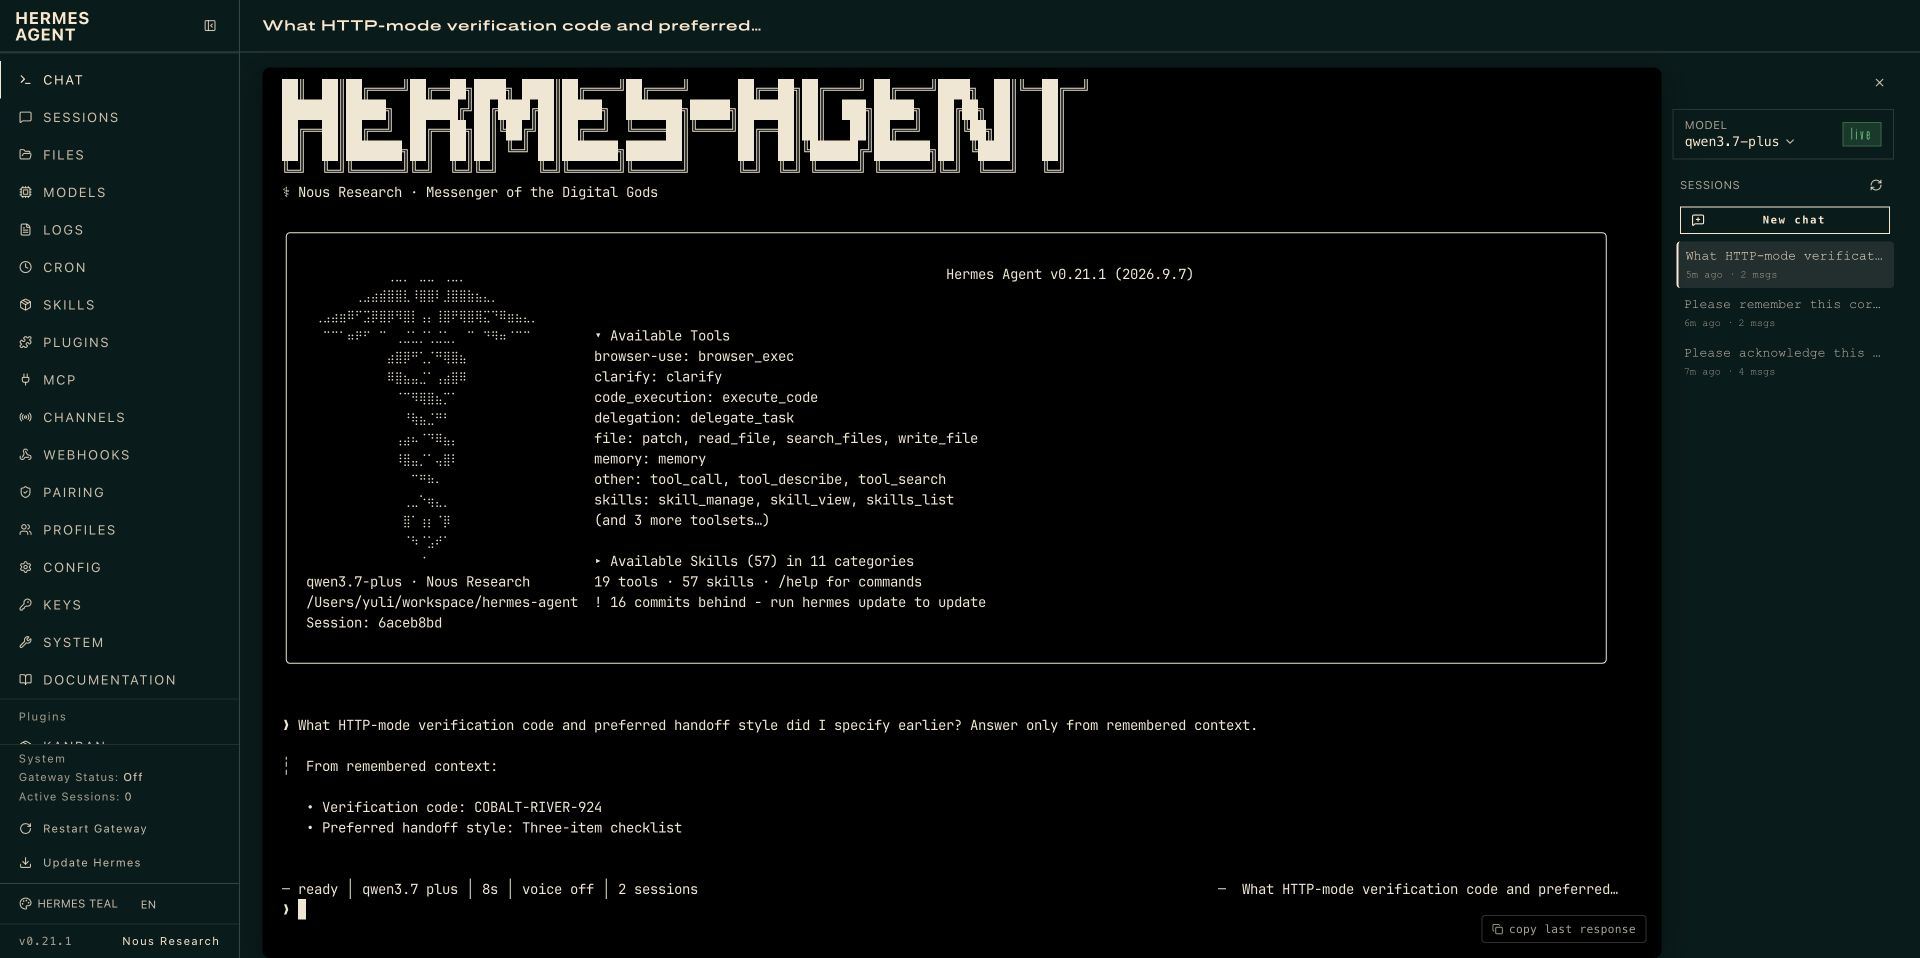
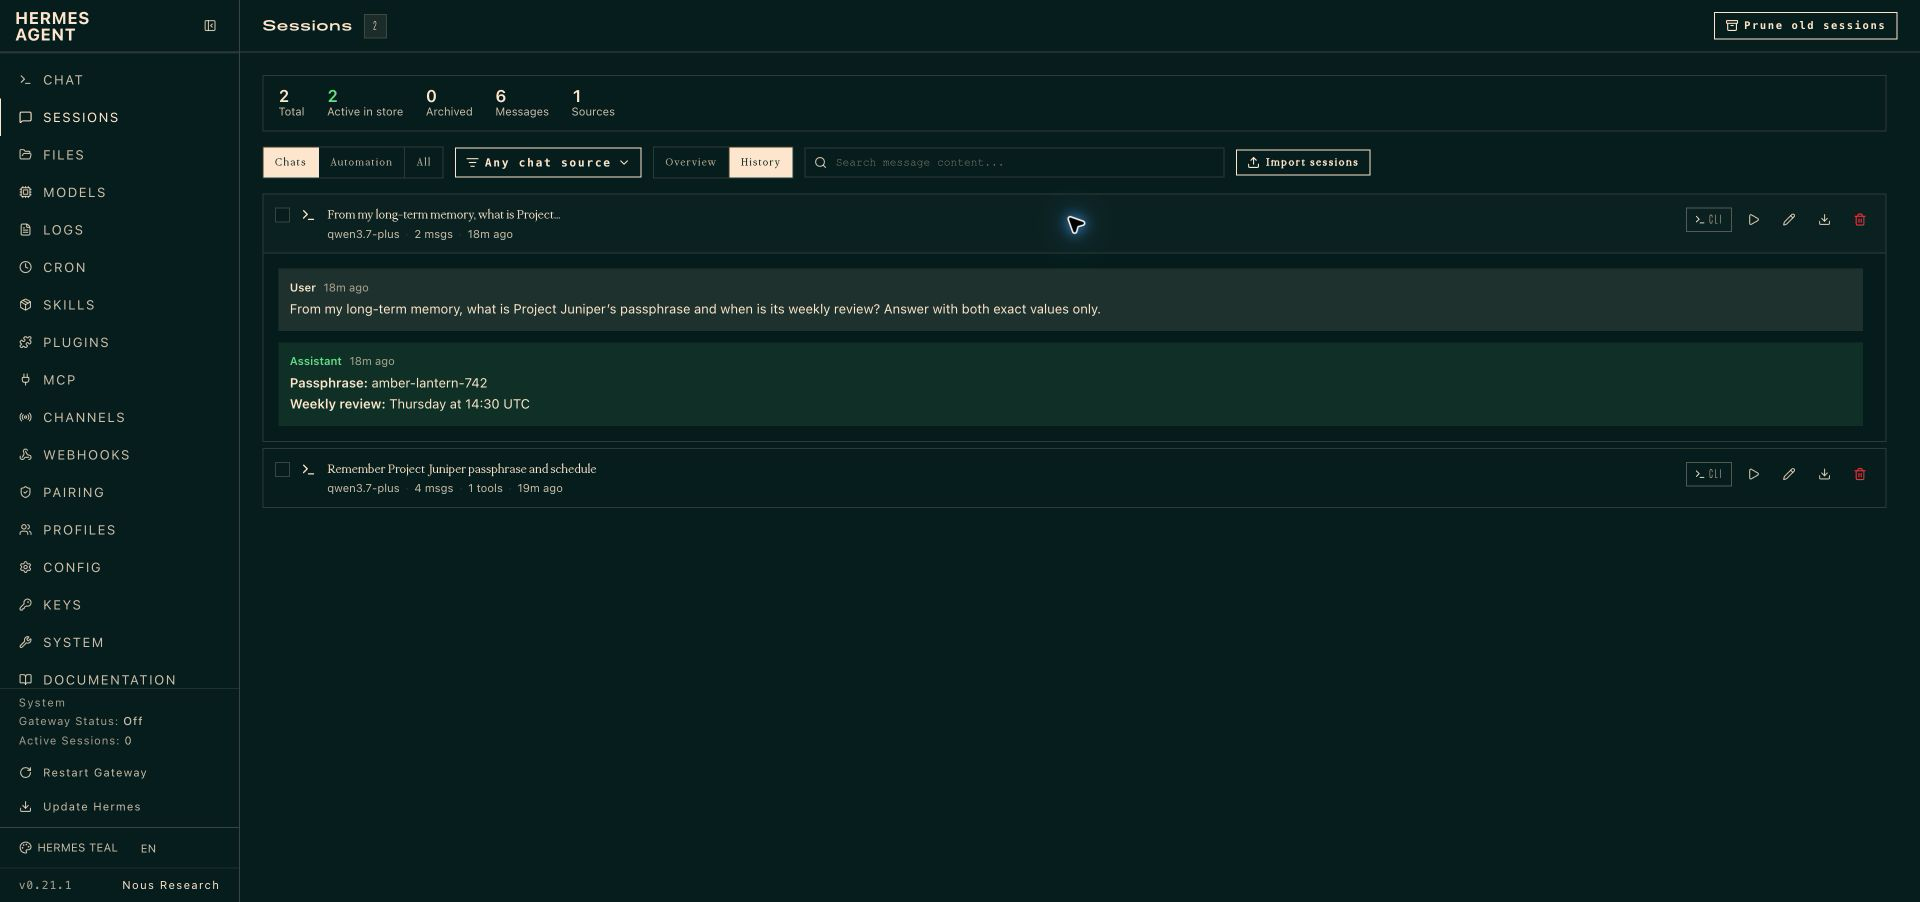
docs(integrations): expand Hermes verification guide

diff --git a/integrations/hermes_agent/README_ZH.md b/integrations/hermes_agent/README_ZH.md
@@ -39,7 +39,8 @@ hermes plugins install agentscope-ai/ReMe/integrations/hermes_agent
 hermes memory setup
 ```
 
-本地开发时可以直接复制当前 checkout：
+本地同时开发 ReMe 和 Hermes 时，可以复制当前 checkout，也可以把它链接为 project-local plugin。软链接会让 Hermes 始终
+运行当前正在编辑的 ReMe 源码：
 
 ```bash
 mkdir -p "$HERMES_HOME/plugins/reme"
@@ -47,6 +48,16 @@ cp -R /path/to/ReMe/integrations/hermes_agent/. "$HERMES_HOME/plugins/reme/"
 hermes plugins enable reme
 hermes config set memory.provider reme
 ```
+
+```bash
+cd /path/to/hermes-agent
+mkdir -p .hermes/plugins
+ln -s /path/to/ReMe/integrations/hermes_agent .hermes/plugins/reme
+export HERMES_ENABLE_PROJECT_PLUGINS=1
+hermes config set memory.provider reme
+```
+
+Hermes 仓库会忽略 `.hermes/` 运行状态。不要提交这个链接、profile 配置、对话记录或生成的记忆文件。
 
 启动对话前检查真实发现路径：
 
@@ -58,7 +69,7 @@ hermes memory status
 Hermes Dashboard 的 **Plugins → Runtime provider plugins → Memory provider → reme** 会展示模式相关字段以及召回、健康、
 写入和关闭的高级设置。选择不同模式时，只显示 HTTP endpoint 或 Embedded workspace 对应字段。
 
-![Hermes 中处于 ready 和 active 状态的 ReMe provider](figures/hermes-provider-settings.jpg)
+![Hermes 中处于 ready 和 active 状态的 ReMe provider](figures/hermes-provider-settings.png)
 
 配置主路径为 `$HERMES_HOME/reme/config.json`。新文件未包含的字段仍会从旧 `$HERMES_HOME/reme.json` 继承，新文件中的
 值优先；后续 CLI 保存会写入完整的新配置，但不会删除旧文件。
@@ -72,7 +83,7 @@ reme start \
   workspace_dir="/absolute/path/to/reme-hermes-default" \
   service.backend=http \
   service.host=127.0.0.1 \
-  service.port=2333
+  service.port=3456
 ```
 
 配置示例：
@@ -80,9 +91,11 @@ reme start \
 ```json
 {
   "mode": "http",
-  "endpoint": "http://127.0.0.1:2333"
+  "endpoint": "http://127.0.0.1:3456"
 }
 ```
+
+本文使用 `3456` 做联调端口，以免与默认 `2333` 上的其他 ReMe 实例冲突；这不是修改 ReMe 默认端口。
 
 终端 setup 会在保存前调用 `health_check`。HTTP action 接口没有本集成专用的认证头，不要直接暴露到公网；跨主机使用时
 应放在可信网络、SSH tunnel 或带认证的反向代理后。
@@ -159,13 +172,61 @@ ReMe 搜索覆盖整个 workspace。多个 Hermes profile 指向同一个 worksp
 
 ## 真实端到端验证
 
-以下截图来自 Hermes 0.21.1、ReMe 0.4.1.11 和 OpenAI-compatible 模型接口的真实联调。HTTP 与 Embedded 分别使用隔离的
-临时 Hermes profile 和 ReMe workspace：第一个会话通过 `auto_memory` 写入合成事实，第二个全新会话通过自动
-`prefetch` 召回。图片不包含 API Key 或真实个人记忆。
+以下截图使用 Computer Use 从真实英文 Hermes 0.21.1 与 ReMe Studio 0.4.1.11 界面取得，模型通过
+OpenAI-compatible 接口调用。HTTP 与 Embedded 分别使用隔离的临时 Hermes profile 和 ReMe workspace：第一个会话通过
+`auto_memory` 写入合成事实，第二个全新会话通过自动 `prefetch` 召回。图片不包含 API Key、`.env` 内容、浏览器外框或
+真实个人记忆。
+
+### 复现验证
+
+先让聚焦单测使用真实 Hermes 源码，再通过 Hermes 自身的 loader 验证插件发现和注册：
+
+```bash
+cd /path/to/ReMe
+PYTHONPATH=/path/to/hermes-agent \
+  pytest tests/unit/test_hermes_agent_integration.py -v
+
+cd /path/to/hermes-agent
+hermes plugins doctor /path/to/ReMe/integrations/hermes_agent --ci
+hermes memory status
+```
+
+真实模型验证时，在 `3456` 启动 ReMe，把 provider endpoint 指向该服务，并使用两个全新的 Hermes 会话：第一个会话要求
+记住一条虚构事实，第二个会话要求重新回答。如果现有 ReMe `.env` 使用 `LLM_*` 变量，只在验证进程环境中映射它们：
+
+```bash
+set -a
+source /path/to/ReMe/.env
+set +a
+export OPENAI_API_KEY="$LLM_API_KEY"
+export OPENAI_BASE_URL="$LLM_BASE_URL"
+
+hermes --provider openai-api -m "$LLM_MODEL_NAME" -z \
+  "Remember this synthetic fact for a later session: Project Juniper's weekly review is Thursday at 14:30 UTC."
+hermes --provider openai-api -m "$LLM_MODEL_NAME" -z \
+  "From long-term memory, when is Project Juniper's weekly review?"
+
+unset OPENAI_API_KEY OPENAI_BASE_URL
+```
+
+第二条命令不要使用 `--resume`。随后确认所选 ReMe workspace 的 `daily/` 下出现新的 Markdown；不要把 ReMe 仓库自身的
+`.reme/` 用作测试 workspace。不要打印这些变量，也不要把映射后的凭据保存到 Hermes 配置。
+
+### Provider 配置
+
+![Hermes 中使用 3456 端口的 ReMe HTTP provider](figures/hermes-provider-settings.png)
+
+### 两个相互独立的 Hermes 会话
+
+![Hermes 会话总览中的写入会话和全新召回会话](figures/hermes-http-sessions.png)
 
 ### HTTP 模式召回
 
 ![Hermes 新会话从 ReMe 召回 HTTP 模式验证事实](figures/hermes-http-recall.png)
+
+### 文件原生的持久化结果
+
+![英文 ReMe Studio 中生成的 Project Juniper Markdown](figures/hermes-reme-daily-note.png)
 
 ### Embedded 模式召回
 
@@ -185,7 +246,7 @@ hermes config set memory.provider reme
 ### HTTP 模式显示 backend unavailable
 
 - 确认 `reme start` 仍在运行，端口与 `endpoint` 一致；
-- 直接执行 `curl -s http://127.0.0.1:2333/health_check -X POST -H 'Content-Type: application/json' -d '{}'`；
+- 直接执行 `curl -s http://127.0.0.1:3456/health_check -X POST -H 'Content-Type: application/json' -d '{}'`；
 - 容器或跨机器部署时，`127.0.0.1` 指向各自本机；
 - 不要把无认证的 ReMe HTTP action 服务直接暴露到公网。
 

diff --git a/integrations/hermes_agent/README.md b/integrations/hermes_agent/README.md
@@ -48,8 +48,9 @@ hermes plugins install agentscope-ai/ReMe/integrations/hermes_agent
 hermes memory setup
 ```
 
-For development from a local checkout, copy the integration into the active
-Hermes profile and enable it:
+For development from local ReMe and Hermes checkouts, either copy the integration
+into the active profile or link it as a project-local plugin. The link keeps
+Hermes on the exact ReMe source being edited:
 
 ```bash
 mkdir -p "$HERMES_HOME/plugins/reme"
@@ -57,6 +58,17 @@ cp -R /path/to/ReMe/integrations/hermes_agent/. "$HERMES_HOME/plugins/reme/"
 hermes plugins enable reme
 hermes config set memory.provider reme
 ```
+
+```bash
+cd /path/to/hermes-agent
+mkdir -p .hermes/plugins
+ln -s /path/to/ReMe/integrations/hermes_agent .hermes/plugins/reme
+export HERMES_ENABLE_PROJECT_PLUGINS=1
+hermes config set memory.provider reme
+```
+
+`.hermes/` is Hermes runtime state and is ignored by the Hermes repository. Do
+not commit the link, profile configuration, conversations, or generated memory.
 
 Verify discovery before starting a conversation:
 
@@ -70,7 +82,7 @@ recall, health, write, and shutdown controls. Select **Plugins → Runtime provi
 plugins → Memory provider → reme**. The active mode controls whether the HTTP
 endpoint or embedded workspace settings are shown.
 
-![ReMe selected as the active Hermes memory provider](figures/hermes-provider-settings.jpg)
+![ReMe selected as the active Hermes memory provider](figures/hermes-provider-settings.png)
 
 Configuration is profile-local at:
 
@@ -92,7 +104,7 @@ reme start \
   workspace_dir="$HOME/.reme-hermes-default" \
   service.backend=http \
   service.host=127.0.0.1 \
-  service.port=2333
+  service.port=3456
 ```
 
 Use this configuration in Hermes:
@@ -100,9 +112,12 @@ Use this configuration in Hermes:
 ```json
 {
   "mode": "http",
-  "endpoint": "http://127.0.0.1:2333"
+  "endpoint": "http://127.0.0.1:3456"
 }
 ```
+
+Port `3456` is used in this guide so the verification service does not collide
+with another ReMe instance on the default `2333` port. It is not a new default.
 
 The setup wizard checks `health_check` before replacing a valid configuration.
 The generic desktop settings endpoint validates field types and choices; a new
@@ -193,15 +208,70 @@ Run `hermes memory status` after installation, then start a new Hermes session.
 
 ## Verified end-to-end behavior
 
-The screenshots below come from real Hermes 0.21.1 conversations using an
-OpenAI-compatible model endpoint and ReMe 0.4.1.11. Each mode used an isolated
-temporary Hermes profile and ReMe workspace. The first session recorded a
-synthetic fact through `auto_memory`; a fresh session then recovered it through
-automatic `prefetch`. No API keys or personal memories appear in the images.
+The screenshots below were captured with Computer Use from real English Hermes
+0.21.1 and ReMe Studio 0.4.1.11 interfaces. The conversations used an
+OpenAI-compatible model endpoint. Each mode used an isolated temporary Hermes
+profile and ReMe workspace. The first session recorded a synthetic fact through
+`auto_memory`; a fresh session then recovered it through automatic `prefetch`.
+No API keys, `.env` contents, browser chrome, or personal memories appear in the
+images.
+
+### Reproduce the verification
+
+Run the focused compatibility suite against the Hermes checkout, then validate
+the plugin through Hermes' real loader:
+
+```bash
+cd /path/to/ReMe
+PYTHONPATH=/path/to/hermes-agent \
+  pytest tests/unit/test_hermes_agent_integration.py -v
+
+cd /path/to/hermes-agent
+hermes plugins doctor /path/to/ReMe/integrations/hermes_agent --ci
+hermes memory status
+```
+
+For a live model test, start ReMe on `3456`, select that endpoint in the ReMe
+provider settings, and use two new Hermes sessions: the first asks Hermes to
+remember a synthetic fact and the second asks for it back. When an existing
+ReMe `.env` uses `LLM_*` names, map them only in the process environment used
+for verification:
+
+```bash
+set -a
+source /path/to/ReMe/.env
+set +a
+export OPENAI_API_KEY="$LLM_API_KEY"
+export OPENAI_BASE_URL="$LLM_BASE_URL"
+
+hermes --provider openai-api -m "$LLM_MODEL_NAME" -z \
+  "Remember this synthetic fact for a later session: Project Juniper's weekly review is Thursday at 14:30 UTC."
+hermes --provider openai-api -m "$LLM_MODEL_NAME" -z \
+  "From long-term memory, when is Project Juniper's weekly review?"
+
+unset OPENAI_API_KEY OPENAI_BASE_URL
+```
+
+The second command must run without `--resume`. Confirm that a new Markdown
+note exists under the selected ReMe workspace's `daily/` directory; do not use
+the ReMe repository's `.reme/` directory for this check. Never print the loaded
+variables or save the mapped credentials in Hermes configuration.
+
+### Provider configuration
+
+![ReMe selected as the active HTTP memory provider on port 3456](figures/hermes-provider-settings.png)
+
+### Two independent Hermes sessions
+
+![The write session and fresh recall session in the Hermes session overview](figures/hermes-http-sessions.png)
 
 ### HTTP mode recall
 
 ![A fresh Hermes session recalls the HTTP-mode verification fact from ReMe](figures/hermes-http-recall.png)
+
+### File-native durable result
+
+![The generated Project Juniper Markdown in the English ReMe Studio interface](figures/hermes-reme-daily-note.png)
 
 ### Embedded mode recall
 
@@ -222,7 +292,7 @@ hermes memory status
 ### HTTP mode is unavailable
 
 - Confirm `reme start` is still running and its port matches `endpoint`.
-- Call the local `health_check` action and inspect ReMe service logs.
+- Call `POST http://127.0.0.1:3456/health_check` and inspect ReMe service logs.
 - In containers or on another host, remember that `127.0.0.1` refers to the
   Hermes machine; use a trusted tunnel or authenticated proxy.
 
